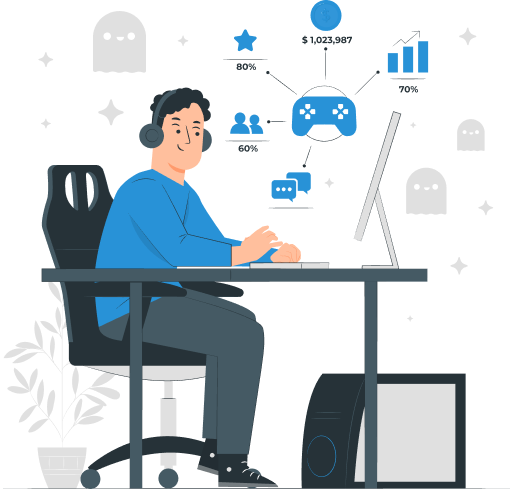
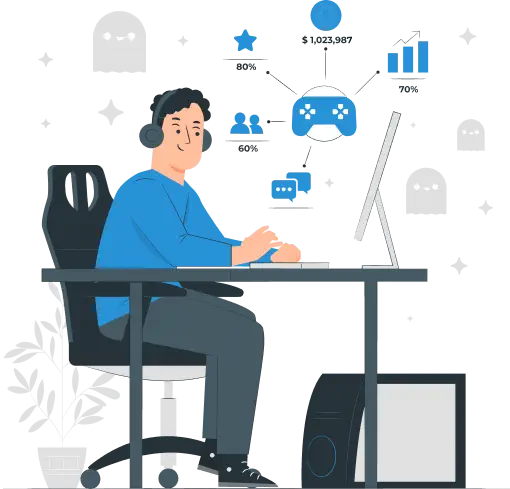
fix(slider button) use div instead of button
- Use div for accessibilty score
- Delete useless JS
- Compress images
- Change color of link for more accessibility

diff --git a/frontend/src/components/Login/LoginCarousel.js b/frontend/src/components/Login/LoginCarousel.js
@@ -47,18 +47,18 @@ const displayButtonSlider = (carousel, clickHandler) => {
   return carousel.map((content) => {
     if (content.selected)
       return (
-        <button
+        <div
           onClick={() => clickHandler(content.id)}
           key={content.id}
           className="slider sliderSelected"
-        ></button>
+        ></div>
       );
     return (
-      <button
+      <div
         onClick={() => clickHandler(content.id)}
         key={content.id}
         className="slider"
-      ></button>
+      ></div>
     );
   });
 };

diff --git a/frontend/src/components/Input.js b/frontend/src/components/Input.js
@@ -1,15 +1,12 @@
-import React, { useState } from "react";
+import React from "react";
 
 import "./Input.css";
 import EmailIcon from "../assets/icons/Email.svg.js";
 import PasswdIcon from "../assets/icons/Password.svg.js";
 
 const Input = (props) => {
-  const [value, setValue] = useState("");
-
   const valueChangeHandler = (event) => {
     console.log(event.target.value)
-    setValue(event.target.value);
   };
 
   const icon =

diff --git a/frontend/src/components/Login/LoginCarousel.css b/frontend/src/components/Login/LoginCarousel.css
@@ -33,6 +33,8 @@
   position: absolute;
   width: fit-content;
   margin: 0 auto;
+  display: flex;
+  column-gap: 12px;
   inset: auto 0 64px 0;
 }
 
@@ -58,7 +60,6 @@
   outline: none;
   height: 12px;
   width: 12px;
-  margin: 0 6px;
   border-radius: 6px;
   transition: all 300ms;
   cursor: pointer;

diff --git a/frontend/src/components/Login/LoginForm.css b/frontend/src/components/Login/LoginForm.css
@@ -18,7 +18,7 @@
 }
 
 .loginPart p:last-child a {
-  color: var(--color-primary);
+  color: var(--color-third);
   font-weight: bold;
 }
 
